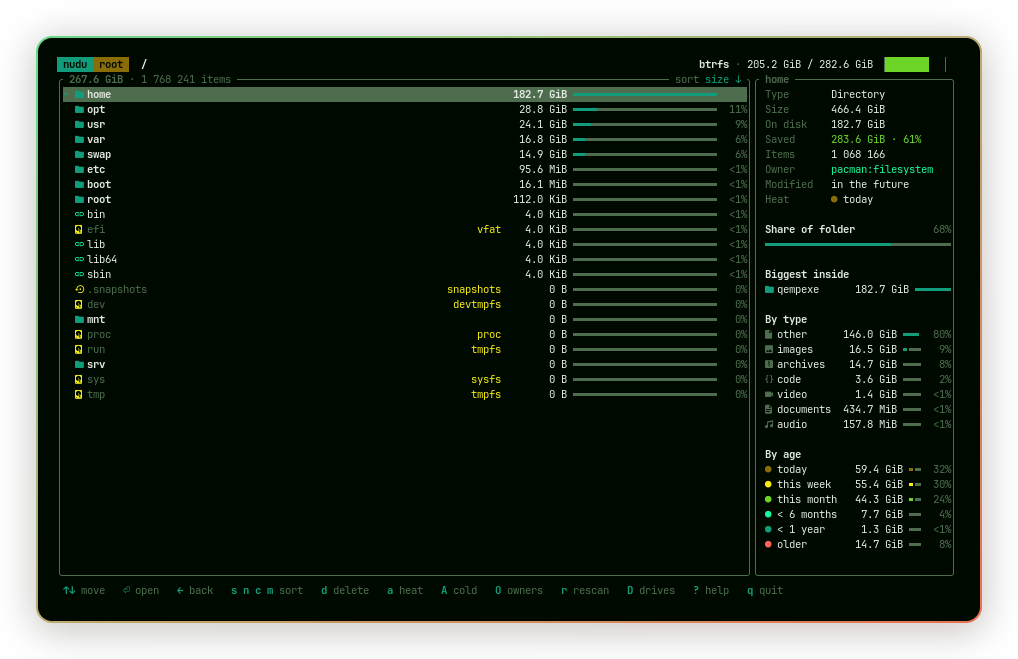
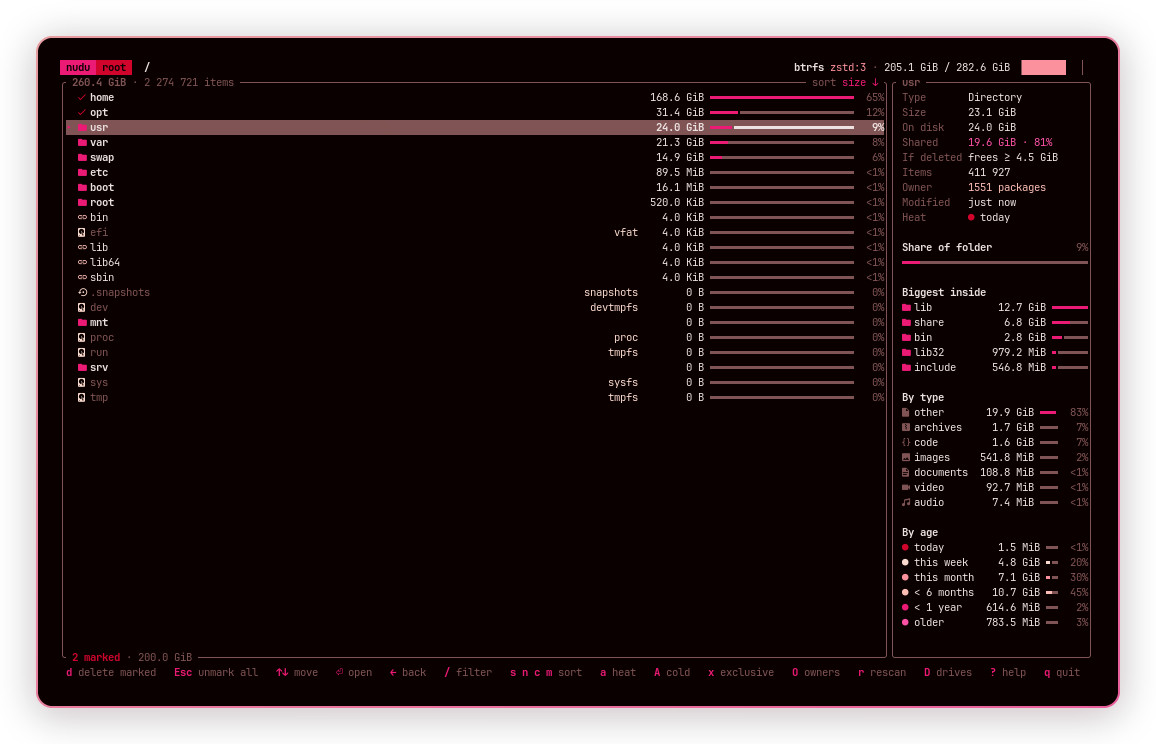
docs: update screenshot for 0.2.0

diff --git a/README.md b/README.md
@@ -7,7 +7,7 @@
 
 A fast terminal disk usage analyzer. Scan a folder, browse it, and see what is eating your disk.
 
-![nudu scanning / on btrfs: folders ranked by size, mounts and snapshots labeled, details pane with type and age breakdown](assets/screenshot.png)
+![nudu scanning / on btrfs with zstd compression: folders ranked by size, two entries marked for deleting, and a details pane showing data shared with snapshots, plus type and age breakdowns](assets/screenshot.png)
 
 ## Features
 
